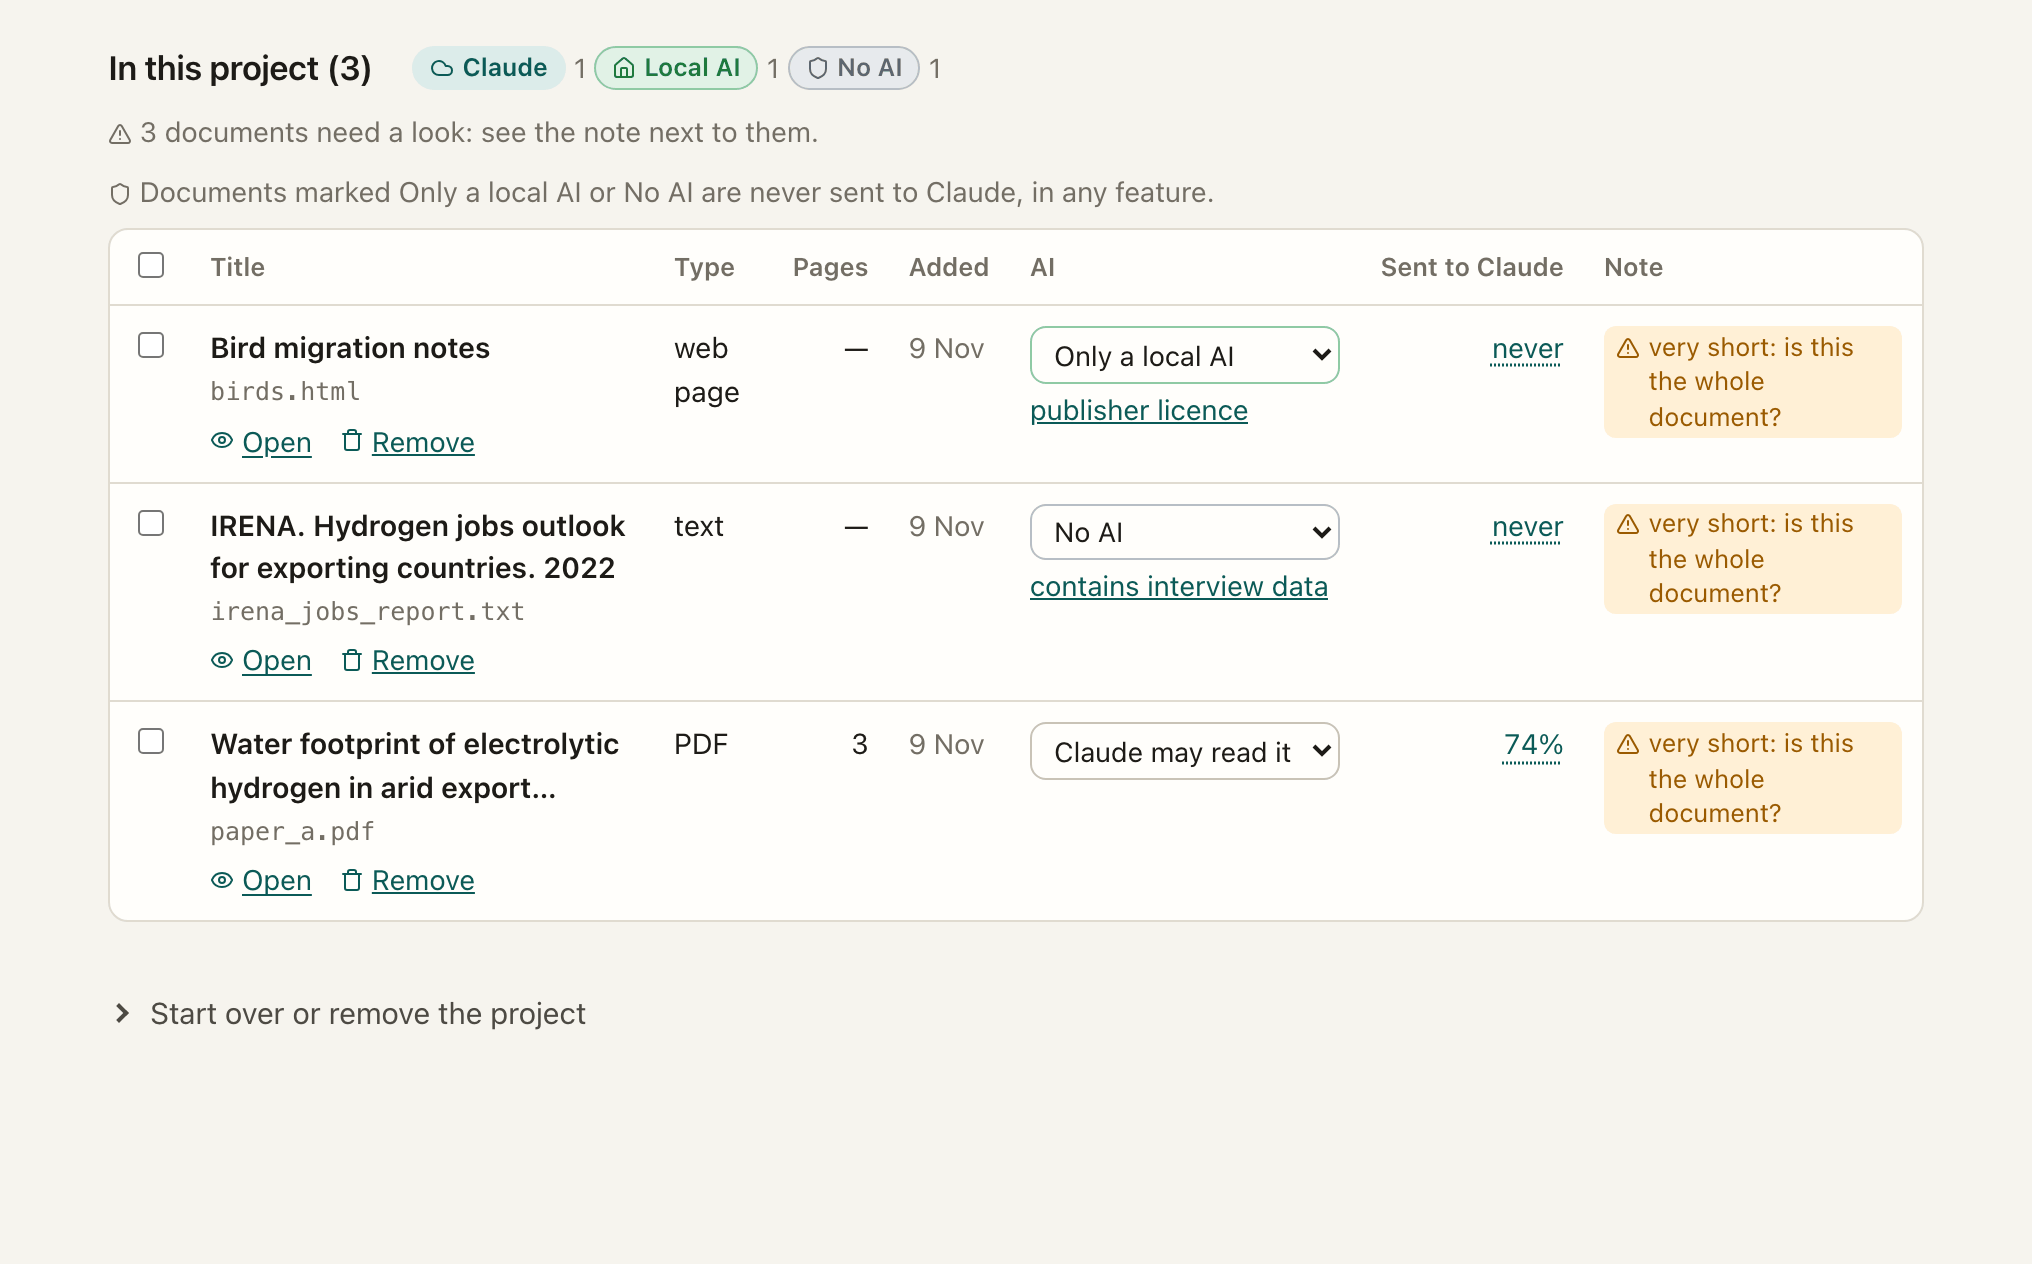
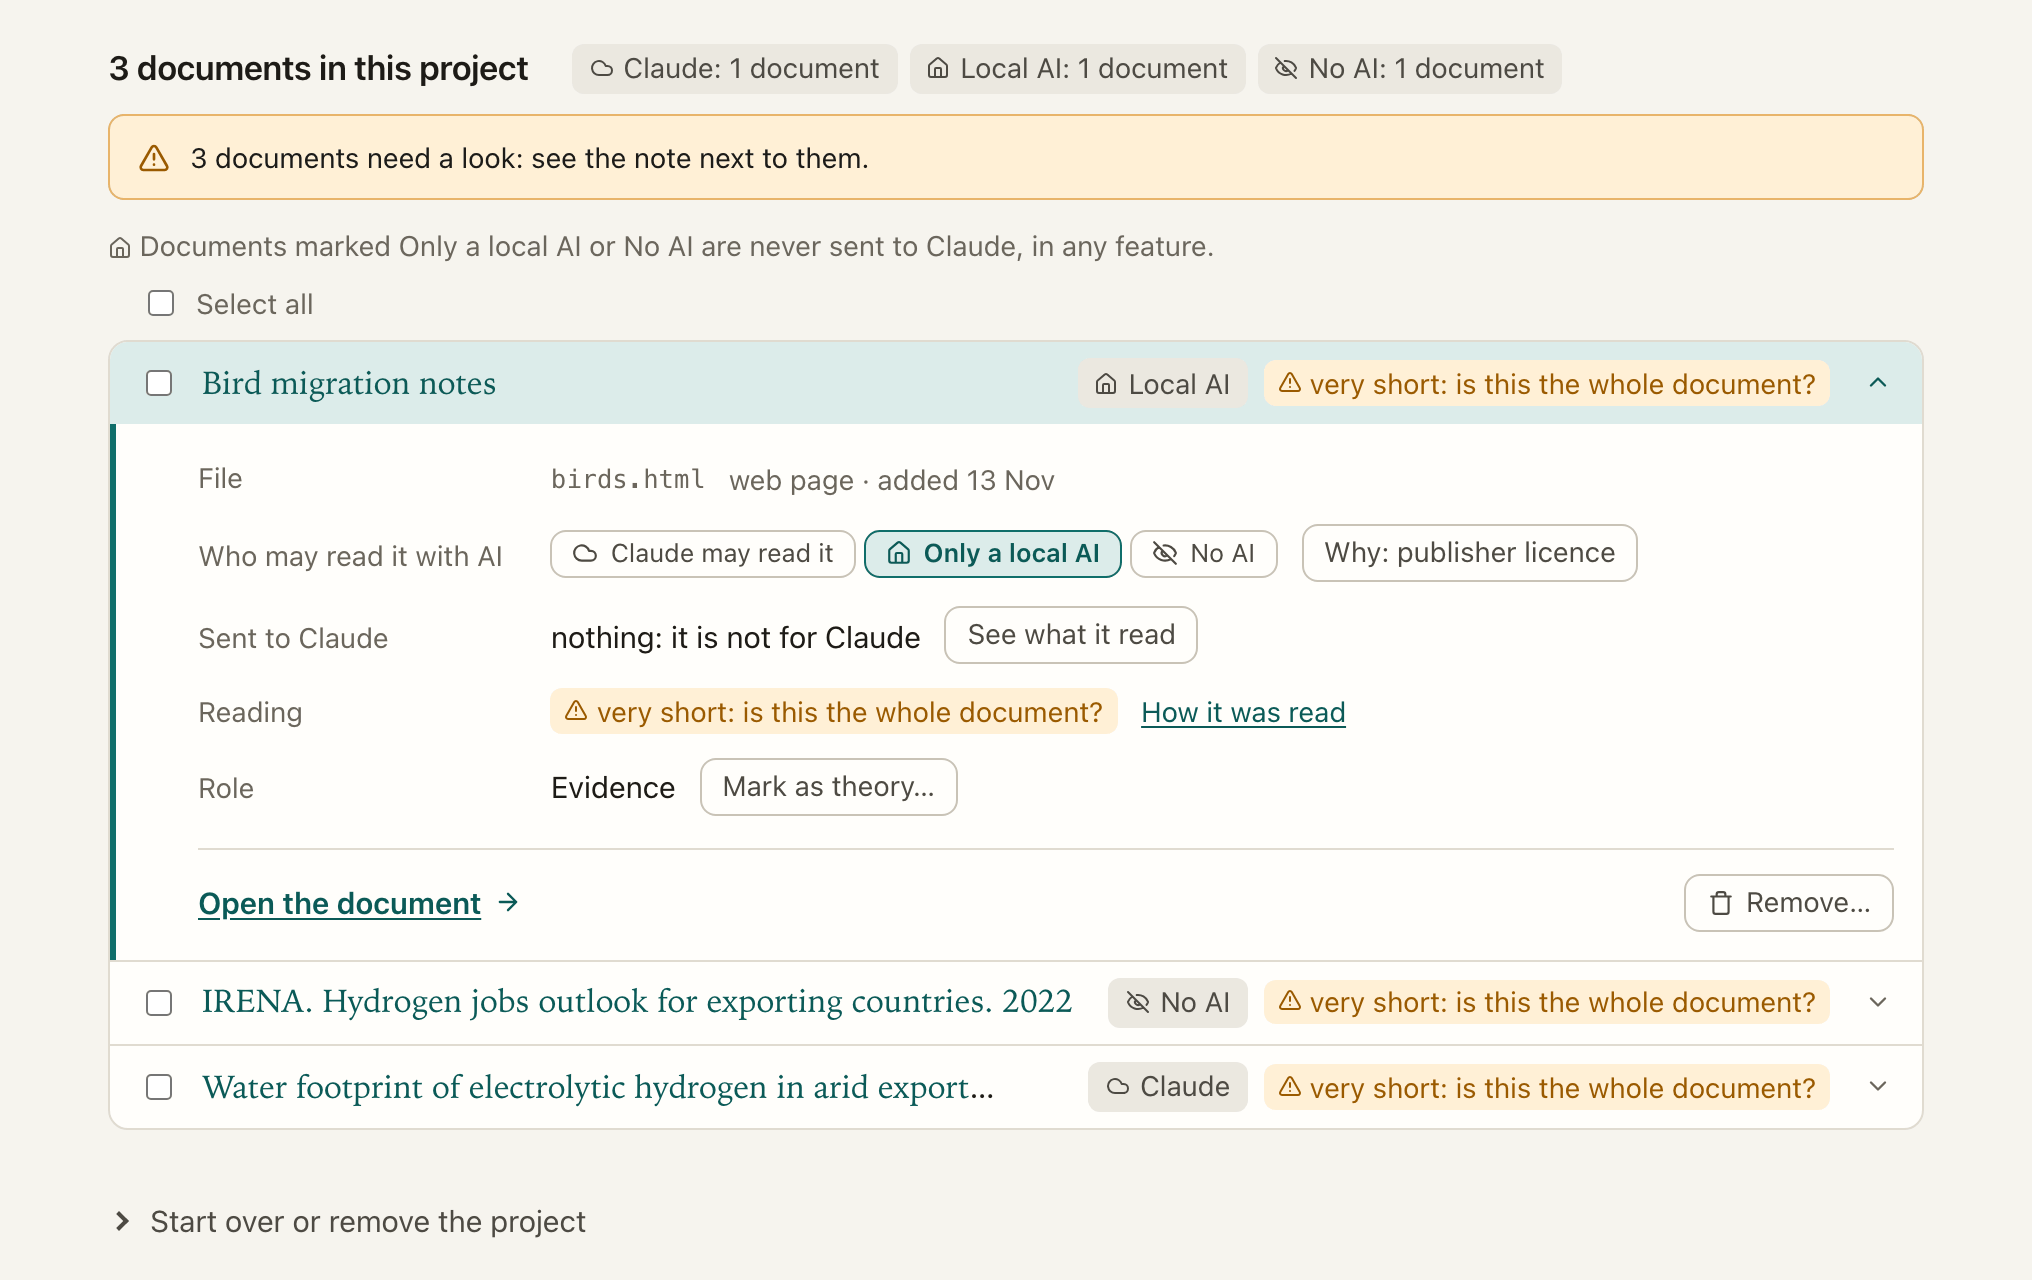
Changelog note, manual screenshot and the manual's Documents shot follow the list

diff --git a/tools/manual_screenshots.py b/tools/manual_screenshots.py
@@ -58,7 +58,7 @@ SHOTS = [
     ("reading-view", ("--reading",), "a document in the reading view, with the Reading panel and Leave out on a hovered block"),
     ("bibliography", ("--corpus", "social", "--zotero"), "Bibliography after bringing in the stand-in Zotero library"),
     ("waiting", ("--corpus", "social", "--claude-code-paused"), "a check waiting for Claude Code: Start Claude Code and the speed choice"),
-    ("documents", ("--mixed",), "Documents with the AI column: who may read each document with AI"),
+    ("documents", ("--mixed",), "Documents: each one a line that opens; who may read it with AI in its panel"),
 ]
 
 VIEWPORT = {"width": 1280, "height": 860}
@@ -300,7 +300,12 @@ def shot_waiting(page, server):
 def shot_documents(page, server):
     go(page, server, "#/sources")
     settled(page, 1000)
-    return ("from", page.get_by_role("heading", name=re.compile("^In this project")).first, 640)
+    # 0.18.3: a document is a line that opens; the picture shows one open, a document kept from Claude if there is one
+    page.evaluate("""() => { const items = [...document.querySelectorAll('.doc-item')];
+      const it = items.find((li) => /Local AI|No AI/.test(li.querySelector('.access-badge')?.textContent || '')) || items[0];
+      if (it) it.querySelector('.doc-toggle').click(); }""")
+    settled(page, 400)
+    return ("from", page.get_by_role("heading", name=re.compile("documents? in this project$")).first, 640)
 
 
 # --- taking and saving the picture -----------------------------------------------------------------------------------------

diff --git a/changes/no-sideways-scroll.md b/changes/no-sideways-scroll.md
@@ -21,4 +21,24 @@
   role, its place in the bibliography, *Open the document* and *Remove…*. The bare "text", "—" and "0%" of the old
   table are gone, and nothing hides in a column off to the side. Ticking documents shows a bar that stays in view, with
   one button per setting instead of a select and *Apply*.
-- Nothing here changes results.
+
+Nothing here changes results.
+
+### For developers
+
+- `heatGrid(table, { label, unit })` (lib.js) draws every heat grid in its frame, with the bar, the arrows and Full
+  screen (a native `<dialog class="grid-full">` the same frame moves into and back). `accessSelect` is gone: the
+  Documents list sets a document's AI access with `choice()` in its panel. DESIGN.md 4.20, 4.24, 4.25 and 9 say how.
+
+### Tests
+
+- The design tests know `heatGrid` (it is on the reference page), the new soft-teal state of an open document, and the
+  Documents list instead of its table; source tests follow the citation, the marked lines and the panel's actions.
+- Checked in Chromium: a 30-column grid's bar, its arrows (no column stepped over), Full screen (header row held,
+  scroll kept, closed by Escape and by a followed link); the Documents list at 1440 and 539 px, a setting changed,
+  the question before loosening one and its Cancel, the bulk bar. The whole suite passes.
+
+### Not yet done
+
+- Themes, documents by theme, was not seen with a real theme run (the demo project has none).
+- Tilted column heads would let narrow count columns fit, so a grid of a dozen themes would not scroll at all.
